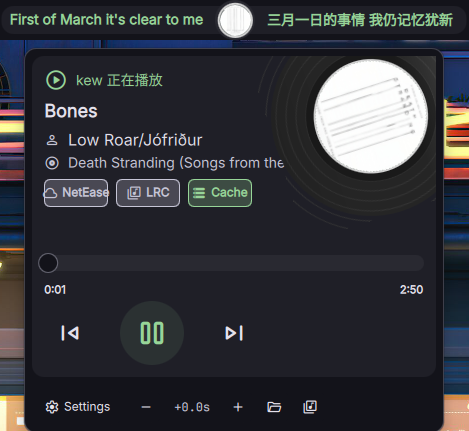
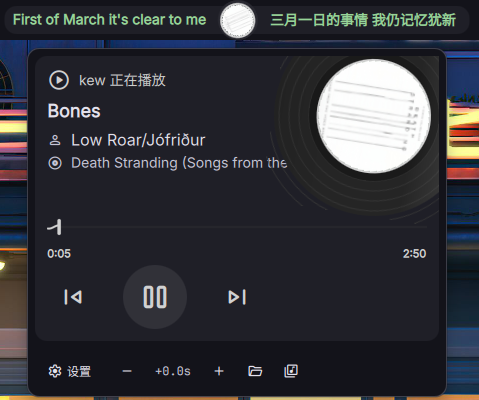
Add instrumental detection for lyric-less tracks, offline-source pure-music mode, status chip toggle, and robust cache file opening

diff --git a/Lyrics.qml b/Lyrics.qml
@@ -212,6 +212,7 @@ PluginComponent {
     // 世界时钟时区配置（备份版用，格式："名称:偏移量" 逗号分隔）
     property string clockTimezones: pluginData.clockTimezones ?? "中国时间:8,日本时间:9,太平洋时间:auto"
     property bool useAlbumAccent: pluginData.useAlbumAccent ?? true
+    property bool showStatusIndicators: pluginData.showStatusIndicators ?? true
     readonly property color _cardAccent: root.useAlbumAccent ? MediaAccentService.accent : Theme.primary
     readonly property color _cardAccentTrack: Theme.withAlpha(root._cardAccent, 0.28)
     readonly property color _cardAccentSubtle: Theme.withAlpha(root._cardAccent, 0.55)
@@ -278,7 +279,9 @@ PluginComponent {
     // ============================================
     property string currentLyricText: {
         // 处理歌曲名：去掉括号及括号内容
-        var title = currentTitle || (root.isEnglish ? "No Lyrics" : "暂无歌词");
+        var title = currentTitle || (root.pureInstrumental
+            ? (root.isEnglish ? "Instrumental" : "纯音乐")
+            : (root.isEnglish ? "No Lyrics" : "暂无歌词"));
         title = title.replace(/[（(].*?[）)]/g, "");  // 去掉括号及内容
         
         // 如果有歌词，显示"歌曲名 歌词"
@@ -287,6 +290,17 @@ PluginComponent {
         }
         return title;
     }
+
+    // 是否有任何可用的在线歌词源
+    readonly property bool onlineSourcesEnabled: neteaseEnabled || lrclibEnabled
+        || (customApiEnabled && customApiUrl && customApiUrl.trim() !== "")
+
+    // 当前曲目是否为纯音乐：
+    // - 无歌词 且 标题/歌手带纯音乐标记；或
+    // - 无歌词 且 用户关闭了全部在线源（此时无缓存即视为纯音乐）
+    readonly property bool pureInstrumental: !lyricsLoading
+        && lyricsLines.length === 0
+        && (_isInstrumentalIdentity(currentTitle, currentArtist) || !root.onlineSourcesEnabled)
 
     // ============================================
     // 定时器
@@ -426,6 +440,28 @@ PluginComponent {
             var cb = callback
             callback = null
             if (cb) cb(null)
+        }
+    }
+
+    // 缓存文件探测: 仅判断是否存在，不读取内容
+    FileView {
+        id: cacheProbe
+        property string probePath: ""
+        watchChanges: false
+        onLoaded: {
+            var p = probePath
+            probePath = ""
+            if (!p) return
+            // micro.desktop 声明 Terminal=true，niri 下 gio open 无法启动；
+            // 直接用 kitty 打开 micro 查看歌词 json
+            Quickshell.execDetached(["kitty", "--class", "lyrics-cache", "-e", "micro", p])
+        }
+        onLoadFailed: {
+            if (probePath) {
+                console.warn("[Lyrics] 缓存文件不存在，打开缓存目录: " + probePath)
+                Quickshell.execDetached(["gio", "open", root._cacheDir])
+                probePath = ""
+            }
         }
     }
 
@@ -615,6 +651,10 @@ PluginComponent {
             }
 
             root.cacheStatus = status.cacheMiss;
+            if (!root.onlineSourcesEnabled) {
+                root._setFinalNotFound(status.notFound);
+                return;
+            }
             _startFetchFromSources(title, artist);
         });
     }
@@ -641,6 +681,10 @@ PluginComponent {
      * 从各源获取歌词（网易云优先）
      */
     function _startFetchFromSources(title, artist) {
+        if (!root.onlineSourcesEnabled) {
+            root._setFinalNotFound(status.notFound);
+            return;
+        }
         if (neteaseEnabled) {
             _fetchFromNetease(title, artist);
         } else {
@@ -1055,10 +1099,18 @@ PluginComponent {
                     return;
                 }
                 root.cacheStatus = status.cacheMiss;
+                if (!root.onlineSourcesEnabled) {
+                    root._setFinalNotFound(status.notFound);
+                    return;
+                }
                 _fetchFromLrclib(title, artist);
             });
         } else {
             cacheStatus = status.cacheDisabled;
+            if (!root.onlineSourcesEnabled) {
+                root._setFinalNotFound(status.notFound);
+                return;
+            }
             _fetchFromLrclib(title, artist);
         }
     }
@@ -1203,17 +1255,23 @@ PluginComponent {
     function _isInstrumentalMarker(text) {
         if (!text || text.trim() === "") return false;
 
-        var normalized = text.toLowerCase().replace(/[\s,，]+/g, "").trim();
+        var normalized = text.toLowerCase().replace(/[\s,，。、;；:：!！?？]+/g, "").trim();
 
         // 中文纯音乐标记
         var instrumentalPatterns = [
             "纯音乐请欣赏",
             "纯音乐",
+            "纯乐器",
+            "无歌词",
+            "暂无歌词",
+            "纯音",
+            "音轨",
             "instrumental",
             "musiconly",
             "nomusic",
-            "无歌词",
-            "暂无歌词"
+            "インスト",
+            "演奏のみ",
+            "instrumentmusik"
         ];
 
         for (var i = 0; i < instrumentalPatterns.length; i++) {
@@ -1222,6 +1280,39 @@ PluginComponent {
             }
         }
 
+        return false;
+    }
+
+    /**
+     * 根据标题/艺术家判断是否为纯音乐（无歌词曲目）
+     * 匹配 Instrumental / 纯音乐 / BGM / OST / 主题曲 等常见标记
+     */
+    function _isInstrumentalIdentity(title, artist) {
+        var hay = ((title || "") + " " + (artist || "")).toLowerCase();
+        if (!hay.trim()) return false;
+        var patterns = [
+            "pure instrumental",
+            "instrumental",
+            "纯音乐",
+            "纯乐器",
+            "bgm",
+            "original soundtrack",
+            "original sound track",
+            "\bost\b",
+            "サウンドトラック",
+            "メインテーマ",
+            "ピアノソロ",
+            "piano solo",
+            "piano piece",
+            "music box",
+            "演奏のみ",
+            "インスト"
+        ];
+        for (var j = 0; j < patterns.length; j++) {
+            if (hay.indexOf(patterns[j]) !== -1) {
+                return true;
+            }
+        }
         return false;
     }
 
@@ -1586,7 +1677,9 @@ PluginComponent {
         if (lyricsLines.length === 0 || currentLineIndex < 0 ||
             (currentLineIndex >= 0 && lyricsLines[currentLineIndex] &&
              _isInstrumentalMarker(lyricsLines[currentLineIndex].text)))
-            return currentTitle || (root.isEnglish ? "No Lyrics" : "暂无歌词");
+            return currentTitle || (root.pureInstrumental
+                ? (root.isEnglish ? "Instrumental" : "纯音乐")
+                : (root.isEnglish ? "No Lyrics" : "暂无歌词"));
         return "";
     }
 
@@ -1797,7 +1890,9 @@ PluginComponent {
                             if (root.lyricsLines.length === 0 ||
                                 (root.currentLineIndex >= 0 && root.lyricsLines[root.currentLineIndex] &&
                                  root._isInstrumentalMarker(root.lyricsLines[root.currentLineIndex].text))) {
-                                return root.currentTitle || (root.isEnglish ? "No Lyrics" : "暂无歌词");
+                                return root.currentTitle || (root.pureInstrumental
+                                    ? (root.isEnglish ? "Instrumental" : "纯音乐")
+                                    : (root.isEnglish ? "No Lyrics" : "暂无歌词"));
                             }
                             return "";
                         }
@@ -1919,8 +2014,40 @@ PluginComponent {
         id: apiIndicators
         spacing: 8
 
+        // 纯音乐识别指示器（无歌词且标题/歌手带纯音乐标记时覆盖各源状态）
+        Rectangle {
+            visible: root.pureInstrumental
+            width: 96
+            height: 28
+            radius: 6
+            color: Theme.withAlpha(Theme.tertiary, 0.25)
+            border.color: Theme.tertiary
+            border.width: 1
+
+            Row {
+                anchors.centerIn: parent
+                spacing: 4
+
+                DankIcon {
+                    name: "music_off"
+                    size: Theme.iconSizeSmall
+                    color: Theme.tertiary
+                    anchors.verticalCenter: parent.verticalCenter
+                }
+
+                StyledText {
+                    text: root.isEnglish ? "Instrumental" : "纯音乐"
+                    font.pixelSize: 12
+                    color: Theme.tertiary
+                    font.weight: Font.Bold
+                    anchors.verticalCenter: parent.verticalCenter
+                }
+            }
+        }
+
         // 网易云指示器 - 带图标的圆角矩形（优先显示）
         Rectangle {
+            visible: !root.pureInstrumental
             width: 64
             height: 28
             radius: 6
@@ -1961,6 +2088,7 @@ PluginComponent {
 
         // lrclib 指示器 - 带图标的圆角矩形
         Rectangle {
+            visible: !root.pureInstrumental
             width: 64
             height: 28
             radius: 6
@@ -2287,7 +2415,7 @@ PluginComponent {
 
                         // API 状态指示器 - 移动到歌曲信息下方，左对齐
                         ApiStatusIndicators {
-                            visible: root.activePlayer
+                            visible: root.activePlayer && root.showStatusIndicators
                         }
 
                         // Spacer to ensure vertical separation from cover art
@@ -2631,7 +2759,9 @@ PluginComponent {
                             onClicked: {
                                 if (root.currentTitle) {
                                     var cachePath = root._cacheFilePath(root.currentTitle, root.currentArtist || "")
-                                    Quickshell.execDetached(["gio", "open", cachePath])
+                                    root.cacheProbe.probePath = cachePath
+                                    root.cacheProbe.path = cachePath
+                                    root.cacheProbe.load()
                                 }
                             }
                             cursorShape: Qt.PointingHandCursor

diff --git a/LyricsSettings.qml b/LyricsSettings.qml
@@ -166,6 +166,13 @@ PluginSettings {
                 defaultValue: true
             }
 
+            ToggleSetting {
+                settingKey: "showStatusIndicators"
+                label: root.isEnglish ? "Show Source Status Chips" : "显示歌曲来源状态标签"
+                description: root.isEnglish ? "Show the NetEase / LRC / Cache / Instrumental status chips in the popup card" : "在弹窗卡片中显示网易 / LRC / 缓存 / 纯音乐 的状态标签"
+                defaultValue: true
+            }
+
             StringSetting {
                 settingKey: "clockTimezones"
                 label: root.isEnglish ? "World Clock Timezones" : "世界时钟时区"
